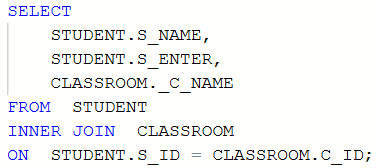
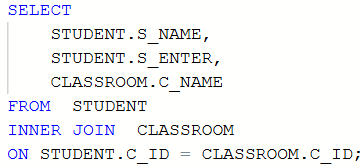
update

diff --git a/exam-2-join-1.html b/exam-2-join-1.html
@@ -69,6 +69,9 @@
     <!-- <div class="exam">직원(SCOTT.EMP) 테이블의 칼럼명을 변경 후 조회한다.</div> -->
     <img src="./img/_test3-exam-2-emp_dept-1-SQL-1.png" alt="예상문제1 SQL문"
     style="width:500px; height:auto;">
+    <h2>실행결과</h2>
+    <img src="./img/_test3-exam-2-emp_dept-1-RESULT-1.png" alt="예상문제1 실행결과"
+    style="width:500px; height:auto;">
 
     <!-- <h2>칼럼 별칭</h2>
     <div class="exam">별칭은 칼럼, 테이블, 서브쿼리, WHERE 절에 내가 원하는 이름(별칭, 별명)을 붙여주는 것으로 접근이 쉬워진다.<br>
@@ -89,6 +92,9 @@
     <h2>SQL문</h2>
     <img src="./img/_test3-exam-2-emp_dept-1-SQL-2.png" alt="예상문제2 SQL문"
     style="width:500px; height:auto;">
+    <h2>실행결과</h2>
+    <img src="./img/_test3-exam-2-emp_dept-1-RESULT-2.png" alt="예상문제2 실행결과"
+    style="width:500px; height:auto;">
 
     <h1>예상문제 3</h1>
     <h2>LEFT OUTER JOIN</h2>
@@ -97,7 +103,10 @@
     <br>
     출력 항목: 부서 이름, 사원 이름</div>
     <h2>SQL문</h2>
-    <img src="./img/_test3-exam-2-emp_dept-1-SQL-3.png" alt="예상문제2 SQL문"
+    <img src="./img/_test3-exam-2-emp_dept-1-SQL-3.png" alt="예상문제3 SQL문"
+    style="width:500px; height:auto;">
+    <h2>실행결과</h2>
+    <img src="./img/_test3-exam-2-emp_dept-1-RESULT-3.png" alt="예상문제3 실행결과"
     style="width:500px; height:auto;">
 
     <br><br><br><br><br>

diff --git a/exam-2-join-2.html b/exam-2-join-2.html
@@ -68,6 +68,9 @@
     <h2>SQL문</h2>
     <img src="./img/_test3-exam-2-student_classroom-SQL-1.png" alt="예상문제1 SQL문"
     style="width:500px; height:auto;">
+    <h2>실행결과</h2>
+    <img src="./img/_test3-exam-2-student_classroom-RESULT-1.png" alt="예상문제1 실행결과"
+    style="width:500px; height:auto;">
 
     <!-- <h2>칼럼 별칭</h2>
     <div class="exam">별칭은 칼럼, 테이블, 서브쿼리, WHERE 절에 내가 원하는 이름(별칭, 별명)을 붙여주는 것으로 접근이 쉬워진다.<br>
@@ -88,6 +91,9 @@
     <h2>SQL문</h2>
     <img src="./img/_test3-exam-2-student_classroom-SQL-2.png" alt="예상문제2 SQL문"
     style="width:400px; height:auto;">
+    <h2>실행결과</h2>
+    <img src="./img/_test3-exam-2-student_classroom-RESULT-2.png" alt="예상문제2 실행결과"
+    style="width:500px; height:auto;">
 
     <h1>예상문제 3</h1>
     <h2>LEFT OUTER JOIN</h2>
@@ -96,7 +102,10 @@
     <br>
     출력 항목: 학과 이름, 학생 이름</div>
     <h2>SQL문</h2>
-    <img src="./img/_test3-exam-2-student_classroom-SQL-3.png" alt="예상문제2 SQL문"
+    <img src="./img/_test3-exam-2-student_classroom-SQL-3.png" alt="예상문제3 SQL문"
+    style="width:500px; height:auto;">
+    <h2>실행결과</h2>
+    <img src="./img/_test3-exam-2-student_classroom-RESULT-3.png" alt="예상문제3 실행결과"
     style="width:500px; height:auto;">
 
     <br><br><br><br><br>
